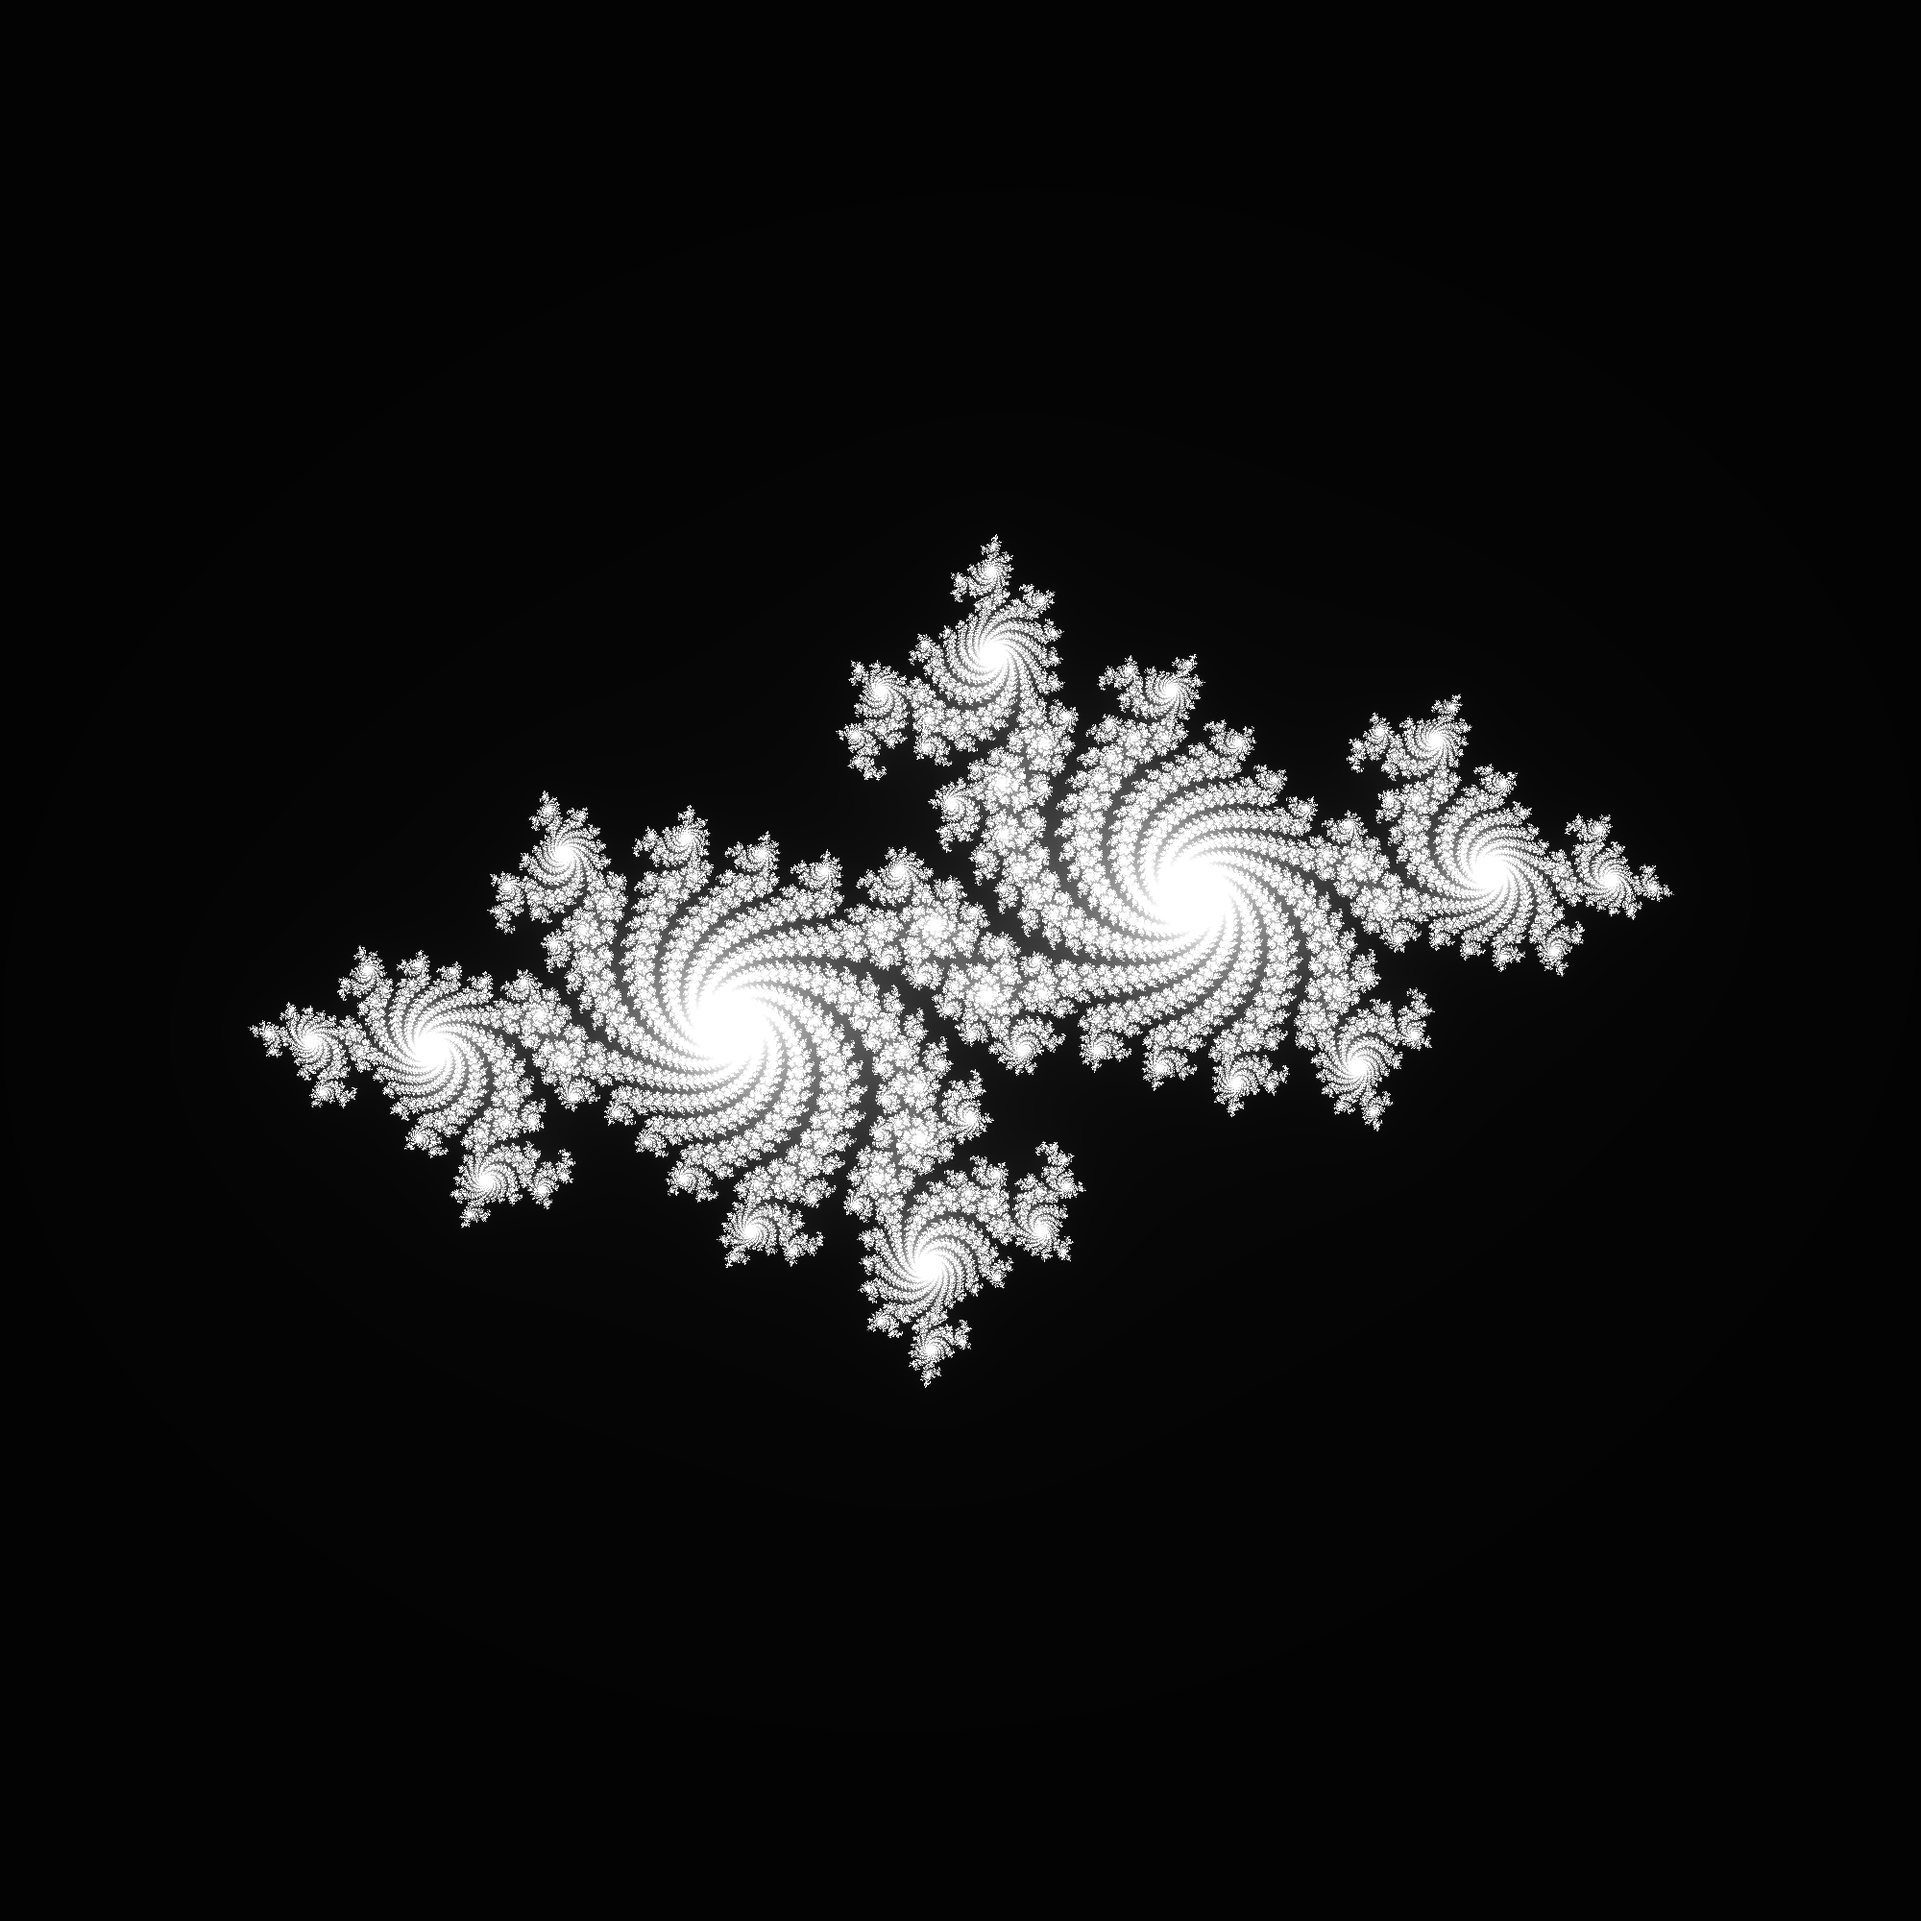
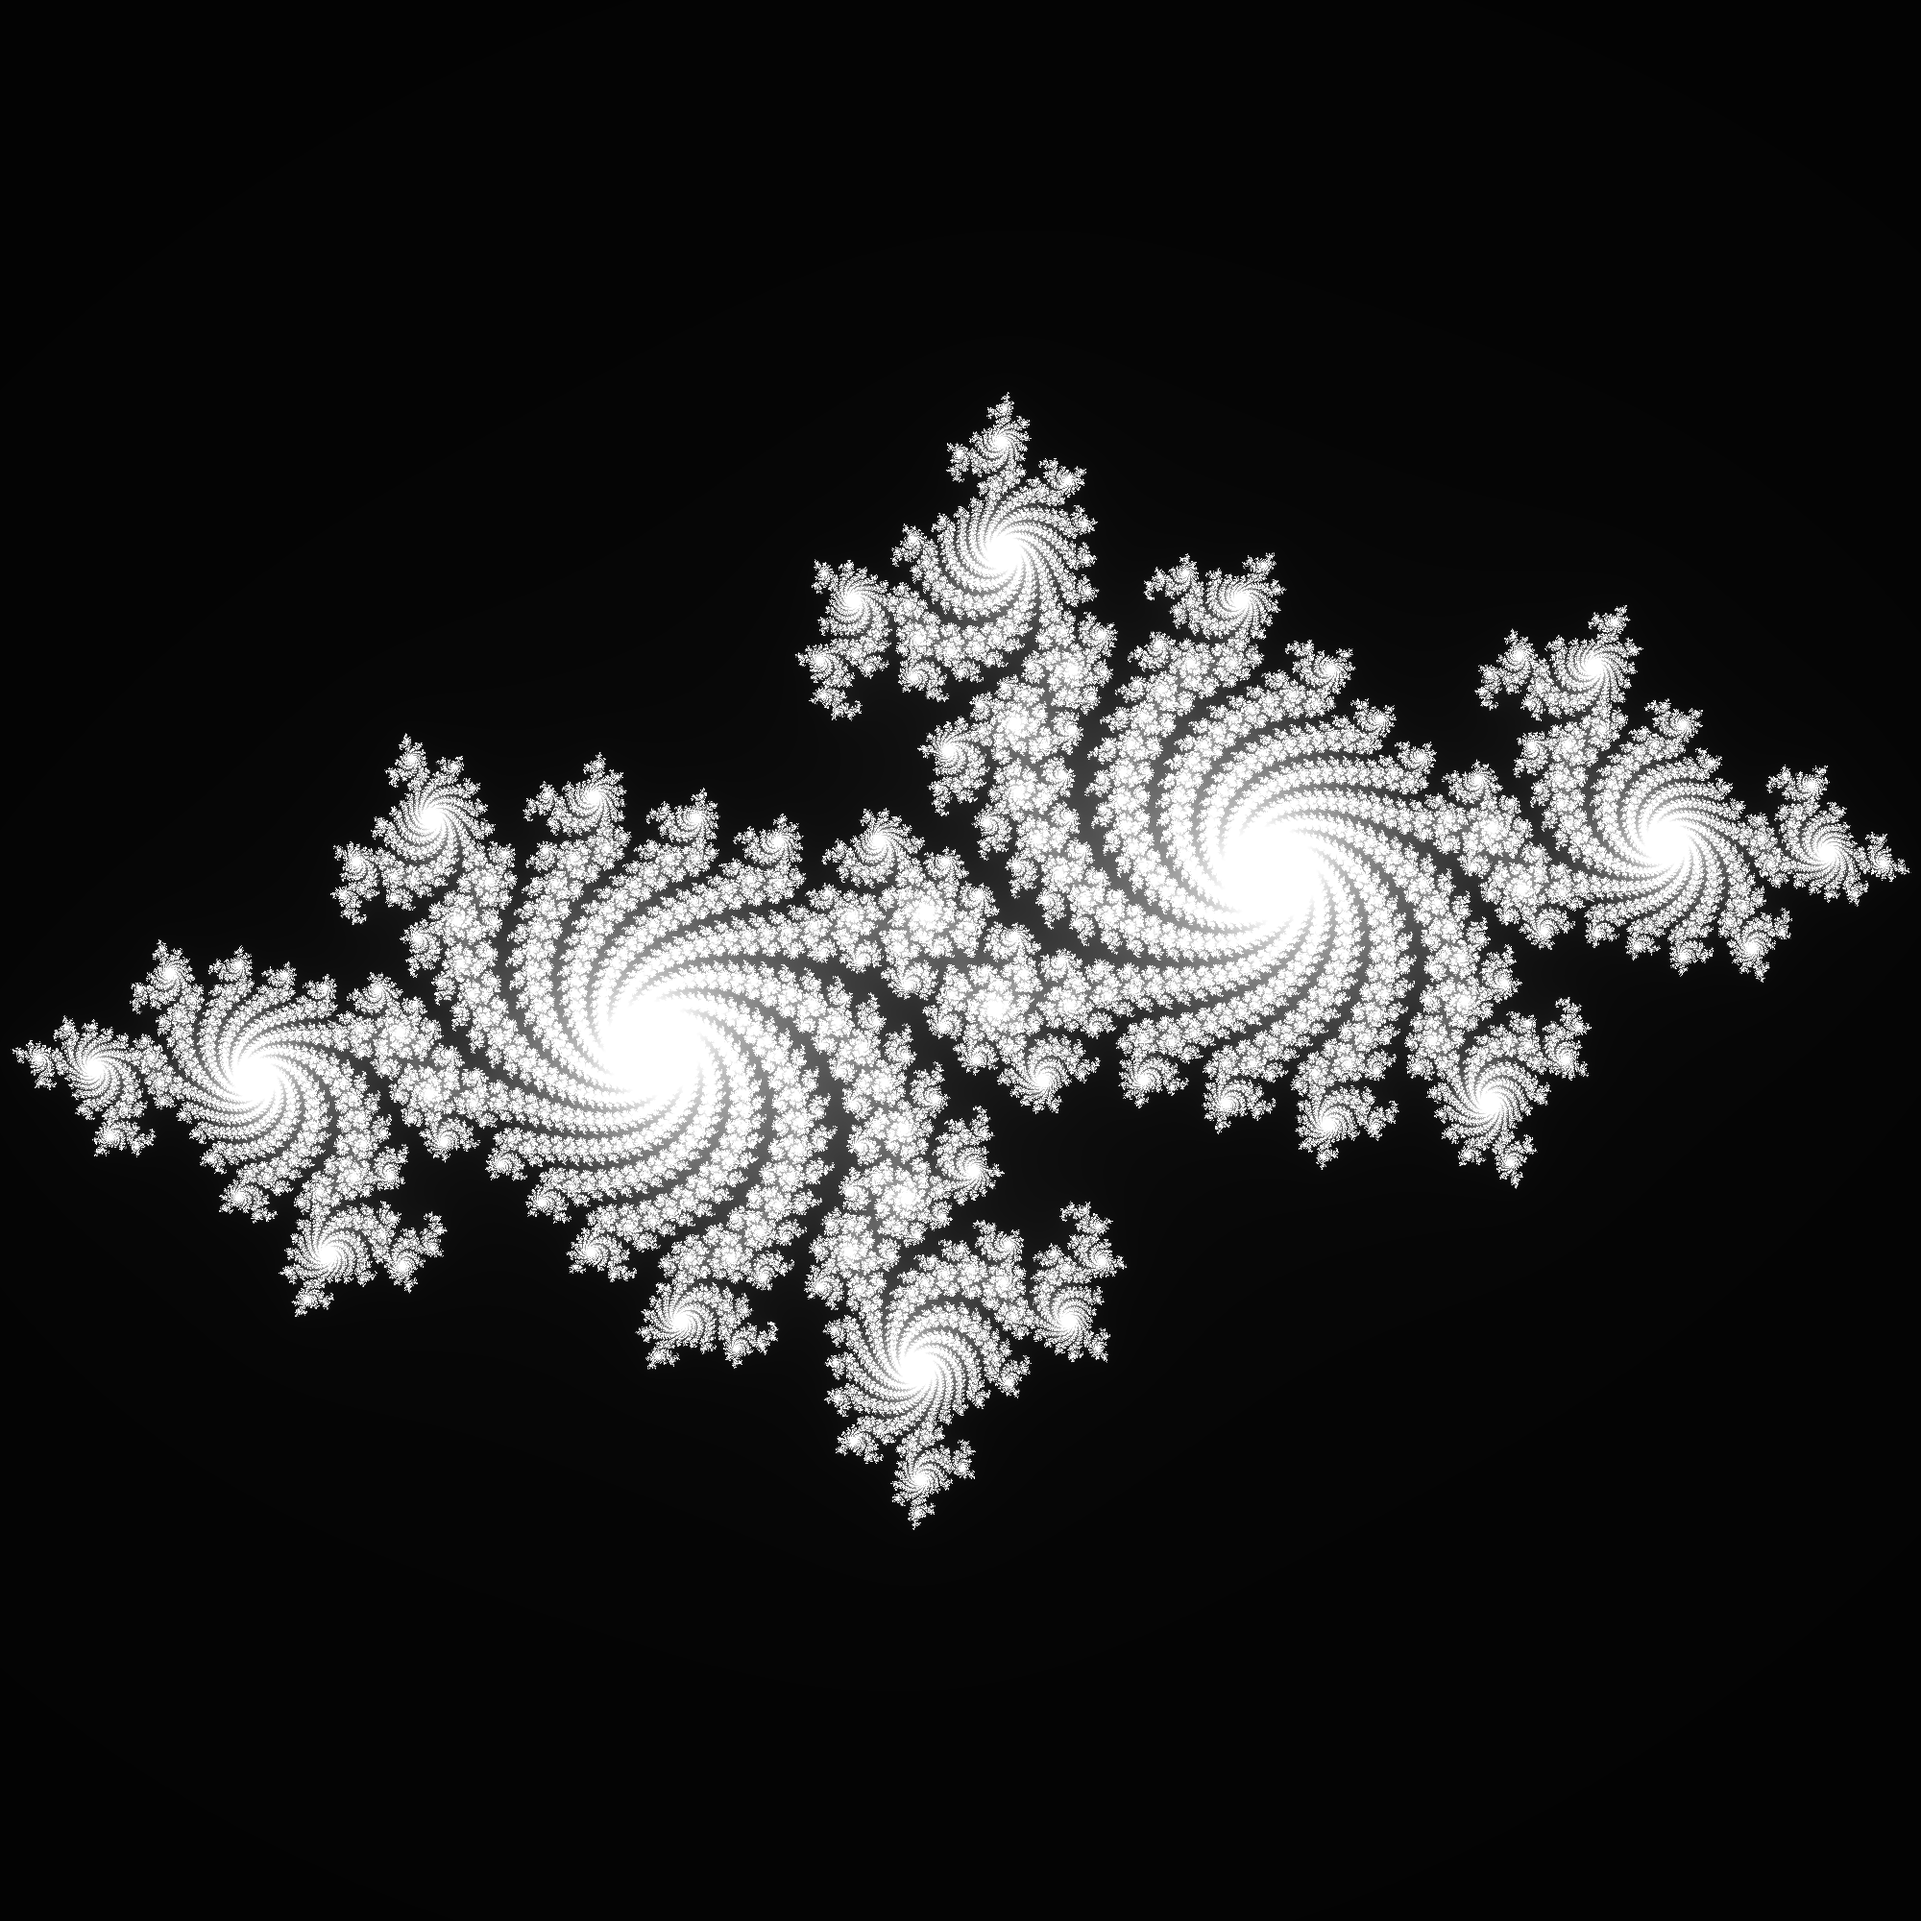
Updated Mandelbrot Image

Changed region(s): [[0.0, 0.217, 0.992, 0.806]]

diff --git a/rust_fractals/src/main.rs b/rust_fractals/src/main.rs
@@ -99,7 +99,7 @@ fn main() {
             println!("Finished Julia Set in {:.1} seconds", start_time.elapsed().unwrap().as_secs_f32());
         },
         Err(_) => {
-            println!("Failed to make video!");
+            println!("Failed to make video! Do you have FFmpeg installed to PATH on your system?");
         },
     } 
     match fs::remove_dir_all("./imgs") {
@@ -114,6 +114,9 @@ fn main() {
         .template("[{elapsed_precise}] [{bar:40.cyan/blue}] {pos}/{len} ({eta})")
         .progress_chars("=>-"));
     let start_time = SystemTime::now();
+    let mut img = RgbImage::new(x_size, y_size);
+    let x_limits: [f64; 2] = [-1.5, 1.5];
+    let y_limits: [f64; 2] = [-1.5, 1.5];
     
     for y in 0..y_size {
         pb.set_position(y as u64);
@@ -135,6 +138,9 @@ fn main() {
         .template("[{elapsed_precise}] [{bar:40.cyan/blue}] {pos}/{len} ({eta})")
         .progress_chars("=>-"));
     let start_time = SystemTime::now();
+    let x_limits: [f64; 2] = [0.12, 0.22];
+    let y_limits: [f64; 2] = [-0.65, -0.55];
+    let mut img = RgbImage::new(x_size, y_size);
     
     for y in 0..y_size {
         pb.set_position(y as u64);
@@ -143,33 +149,35 @@ fn main() {
             let cx = x as f64 * (x_limits[1] - x_limits[0]) / x_size as f64 + x_limits[0];
             let c: Complex<f64> = Complex::new(cx, cy);
             let mandelbrot_num = fractals::mandelbrot(c, Complex::new(0.0, 0.0), 1, max_iterations);
-            if mandelbrot_num == 1 || mandelbrot_num == 6 {
+            let final_num = mandelbrot_num.to_string().chars().last().unwrap().to_string().parse::<u32>().unwrap();
+
+            let purple = Rgb([159, 0, 255]);
+            let green = Rgb([0, 178, 51]);
+            let yellow = Rgb([255, 237, 0]);
+            let red = Rgb([255, 63, 49]);
+            let blue = Rgb([0, 205, 255]);
+
+            if final_num == 0 {
+                img.put_pixel(x, y, blue);
+            } else if final_num == 1 {
                 img.put_pixel(x, y, Rgb([255, 255, 255]));
-            } else if mandelbrot_num == 0 {
-                img.put_pixel(x, y, Rgb([159, 0, 255]));
-            } else if mandelbrot_num == 2 {
-                img.put_pixel(x, y, Rgb([0, 178, 51]));
-            } else if mandelbrot_num == 3 {
-                img.put_pixel(x, y, Rgb([255, 237, 0]));
-            } else if mandelbrot_num == 4 {
-                img.put_pixel(x, y, Rgb([255, 63, 49]));
-            } else if mandelbrot_num == 5 {
-                img.put_pixel(x, y, Rgb([0, 205, 255]));
-            } else if mandelbrot_num == 6 {
-                img.put_pixel(x, y, Rgb([159, 0, 255]));
-            } else if mandelbrot_num == 7 {
-                img.put_pixel(x, y, Rgb([0, 178, 51]));
-            } else if mandelbrot_num == 8 {
-                img.put_pixel(x, y, Rgb([255, 237, 0]));
-            } else if mandelbrot_num == 9 {
-                img.put_pixel(x, y, Rgb([255, 63, 49]));
-            } else if mandelbrot_num == 10 {
-                img.put_pixel(x, y, Rgb([0, 205, 255]));
-            } else if mandelbrot_num >= 11 && mandelbrot_num <= 254 {
-                img.put_pixel(x, y, Rgb([255, 255, 255]));
-            } else if mandelbrot_num > 254 {
-                img.put_pixel(x, y, Rgb([0, 178, 51]));
-            }
+            } else if final_num == 2 {
+                img.put_pixel(x, y, green);
+            } else if final_num == 3 {
+                img.put_pixel(x, y, yellow);
+            } else if final_num == 4 {
+                img.put_pixel(x, y, red);
+            } else if final_num == 5 {
+                img.put_pixel(x, y, blue);
+            } else if final_num == 6 {
+                img.put_pixel(x, y, purple);
+            } else if final_num == 7 {
+                img.put_pixel(x, y, green);
+            } else if final_num == 8 {
+                img.put_pixel(x, y, yellow);
+            } else if final_num == 9 {
+                img.put_pixel(x, y, red);
+            } 
         }
     }
     img.save("Mandelbrot.png").expect("Image failed to save.");
